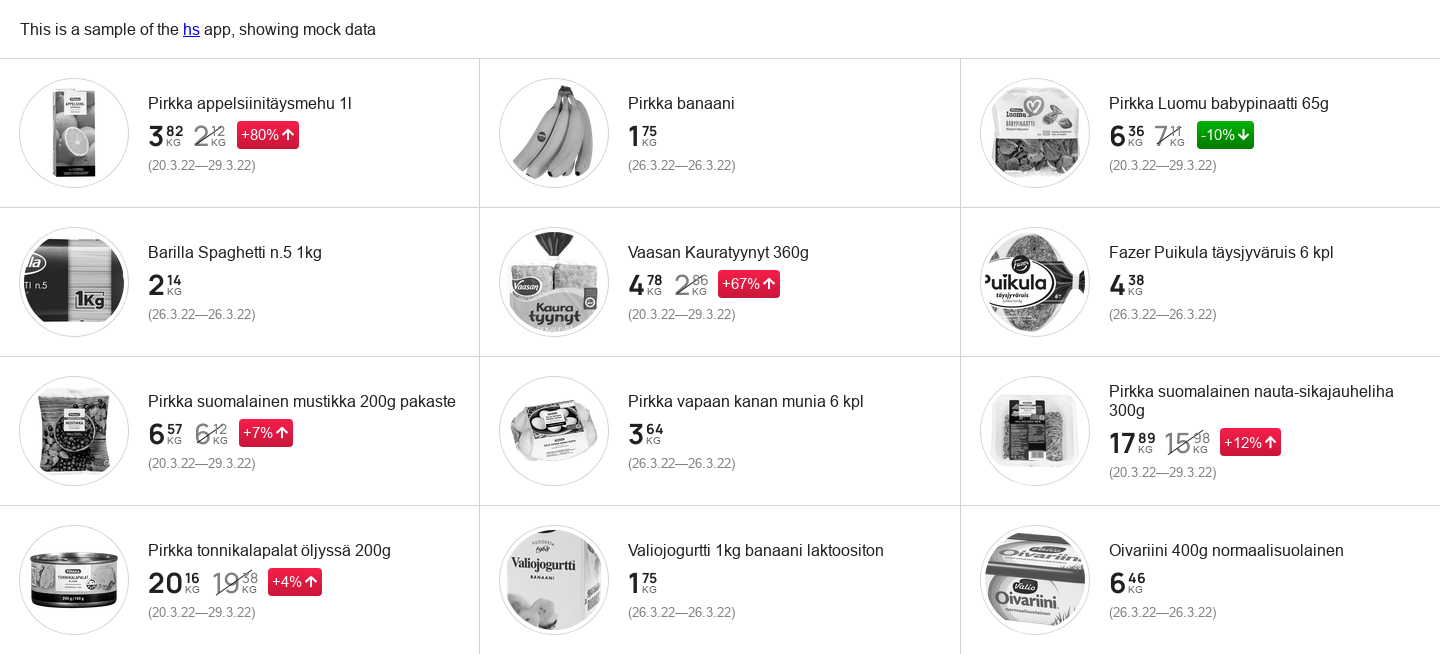
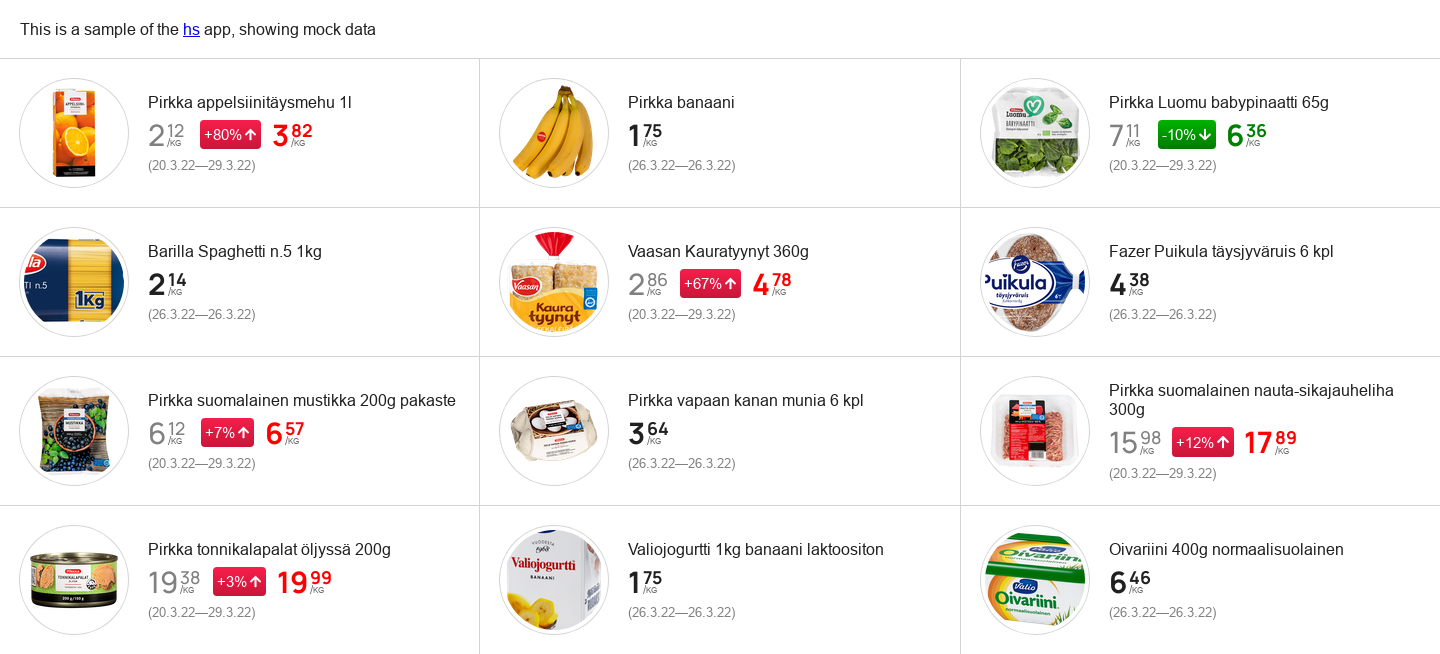
serve: Tweak the price indicator's styling

diff --git a/src/templates/css/index.css b/src/templates/css/index.css
@@ -63,12 +63,11 @@ body > header {
     background-color: white;
     overflow: hidden;
     box-shadow: 0 0 0 1px lightgrey;
-    transition: transform 0.075s linear, box-shadow 0.075s linear, filter 1.5s linear;
-    filter: grayscale(1);
+    transition: transform 0.075s linear, box-shadow 0.075s linear;
 }
 .product-card:hover .media {
     filter: grayscale(0);
-    transition: transform 0.2s ease-out, box-shadow 0.2s ease-out, filter 0.075s linear;
+    transition: transform 0.2s ease-out, box-shadow 0.2s ease-out;
 }
 .product-card .media img {
     width: 100%;
@@ -83,7 +82,7 @@ body > header {
 .product-card.selected .product-price-history {
     margin-top: var(--vertical-element-spacing);
     opacity: 1;
-    height: 1.75em;
+    height: 1.85em;
 }
 .product-card .product-price-history svg {
     width: 100%;
@@ -118,10 +117,10 @@ body > header {
     transition: margin 0.075s linear;
 }
 .product-card.selected header .product-price {
-    margin-top: -1.75em;
+    margin-top: -1.85em;
 }
 .product-card header .price-per-unit {
-    font-size: 175%;
+    font-size: 185%;
     display: flex;
     align-items: flex-start;
     font-family: "Manrope";
@@ -130,23 +129,19 @@ body > header {
 }
 .product-card header .product-price .price-per-unit.initial {
     color: var(--weak-color);
-    margin-right: 0.45em;
     position: relative;
-}
-.product-card header .product-price .price-per-unit.initial::before {
-    position: absolute;
-    border-bottom: 1px solid #202020;
-    content: "";
-    top: 50%;
-    left: 0;
-    right: 0;
-    transform: rotate(-35deg);
 }
 .product-card header .product-price .price-per-unit.initial {
     font-weight: 500;
+    margin-right: 0.7em;
 }
 .product-card header .product-price .price-per-unit.current {
-    margin-right: 0.45em;
+}
+.product-card header .product-price.up .price-per-unit.current {
+    color: red;
+}
+.product-card header .product-price.down .price-per-unit.current {
+    color: green;
 }
 .product-card header .product-price.up .price-per-unit.initial::after {
     border-color: inherit;
@@ -161,26 +156,30 @@ body > header {
     line-height: 1;
 }
 .product-card header .price-per-unit .fractional {
-    font-size: 50%;
-    margin-left: 2px;
+    font-size: 60%;
     height: 2em;
     position: absolute;
+    line-height: 1.2;
 }
 .product-card header .price-per-unit .frac-unit-container {
+    margin-left: 2px;
     position: relative;
 }
 .product-card header .price-per-unit .unit {
-    margin-left: 2px;
     display: flex;
     align-items: flex-end;
-    font-size: 50%;
-    height: 2em;
+    font-size: 40%;
+    height: 2.5em;
     width: 1em;
     color: dimgray;
     font-family: sans-serif;
     font-weight: normal;
     text-transform: lowercase;
     font-variant: small-caps;
+}
+.product-card header .price-per-unit .unit > .separator {
+    display: inline-block;
+    transform: translateY(1px);
 }
 .product-card header .price-change {
     font-weight: normal;
@@ -191,6 +190,7 @@ body > header {
     padding: 2px 4px;
     border-radius: 4px;
     font-size: 95%;
+    margin-right: 0.7em;
 }
 .product-card header .price-change .font-awesome-icon {
     margin-left: 2px;
@@ -223,9 +223,6 @@ body > header {
     .product-card .media {
         width: 90px;
         height: 90px;
-    }
-    .product-card header .price-change {
-        margin-left: auto;
     }
 }
 @media only screen and (max-width: 355px) {

diff --git a/src/templates/html/product-card.html b/src/templates/html/product-card.html
@@ -8,23 +8,29 @@
                 {{ PRODUCT_NAME }}
             </div>
             <div class="product-price {{ PRODUCT_PRICE_TENDENCY_CLASS_NAME }}">
-                <div class="price-per-unit current">
-                    <span class="integer">{{ PRODUCT_CURRENT_PRICE_VALUE_INTEGER }}</span>
-                    <span class="frac-unit-container">
-                        <span class="fractional">{{ PRODUCT_CURRENT_PRICE_VALUE_FRACTIONAL }}</span>
-                        <span class="unit">{{ PRODUCT_INITIAL_PRICE_UNIT }}</span>
-                    </span>
-                </div>
                 <div class="price-per-unit initial">
                     <span class="integer">{{ PRODUCT_INITIAL_PRICE_VALUE_INTEGER }}</span>
                     <span class="frac-unit-container">
                         <span class="fractional">{{ PRODUCT_INITIAL_PRICE_VALUE_FRACTIONAL }}</span>
-                        <span class="unit">{{ PRODUCT_CURRENT_PRICE_UNIT }}</span>
+                        <span class="unit">
+                            <span class="separator">/</span>
+                            {{ PRODUCT_CURRENT_PRICE_UNIT }}
+                        </span>
                     </span>
                 </div>
                 <div class="price-change">
                     <span class="label">{{ PRODUCT_RELATIVE_PRICE_CHANGE }}</span>
                     {{ PRODUCT_PRICE_TENDENCY_SYMBOL }}
+                </div>
+                <div class="price-per-unit current">
+                    <span class="integer">{{ PRODUCT_CURRENT_PRICE_VALUE_INTEGER }}</span>
+                    <span class="frac-unit-container">
+                        <span class="fractional">{{ PRODUCT_CURRENT_PRICE_VALUE_FRACTIONAL }}</span>
+                        <span class="unit">
+                            <span class="separator">/</span>
+                            {{ PRODUCT_INITIAL_PRICE_UNIT }}
+                        </span>
+                    </span>
                 </div>
             </div>
         </header>
